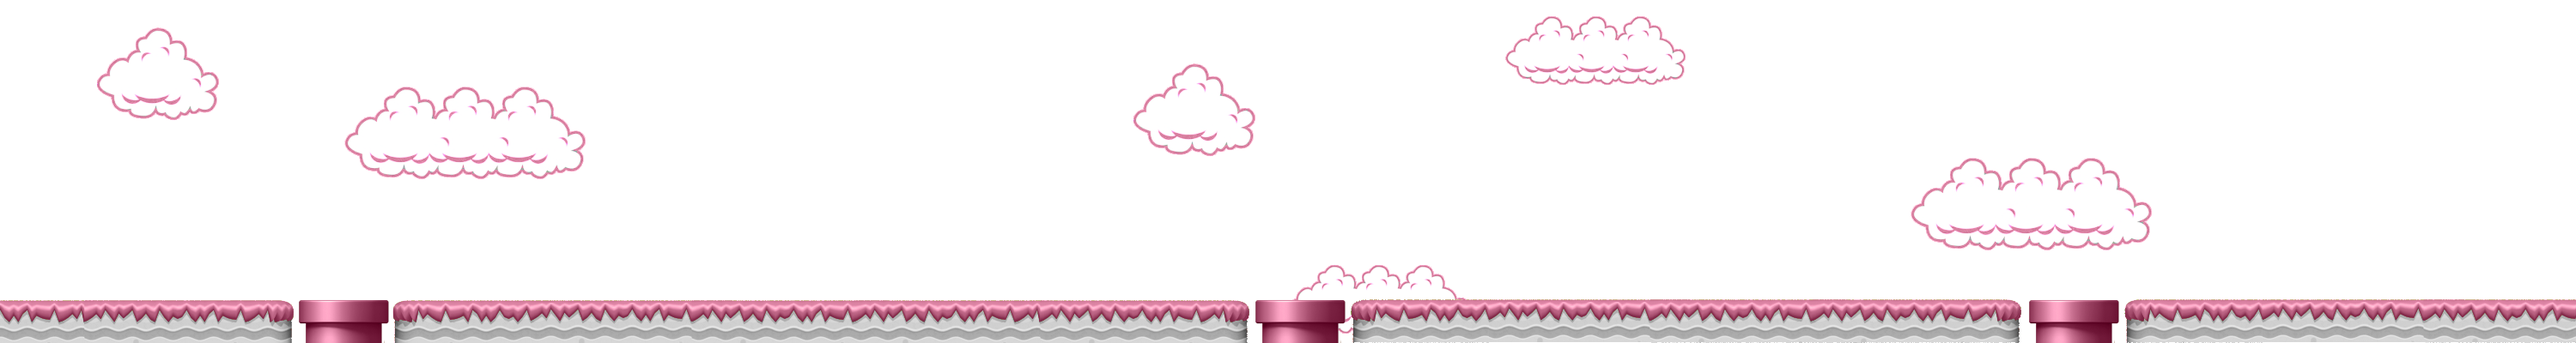
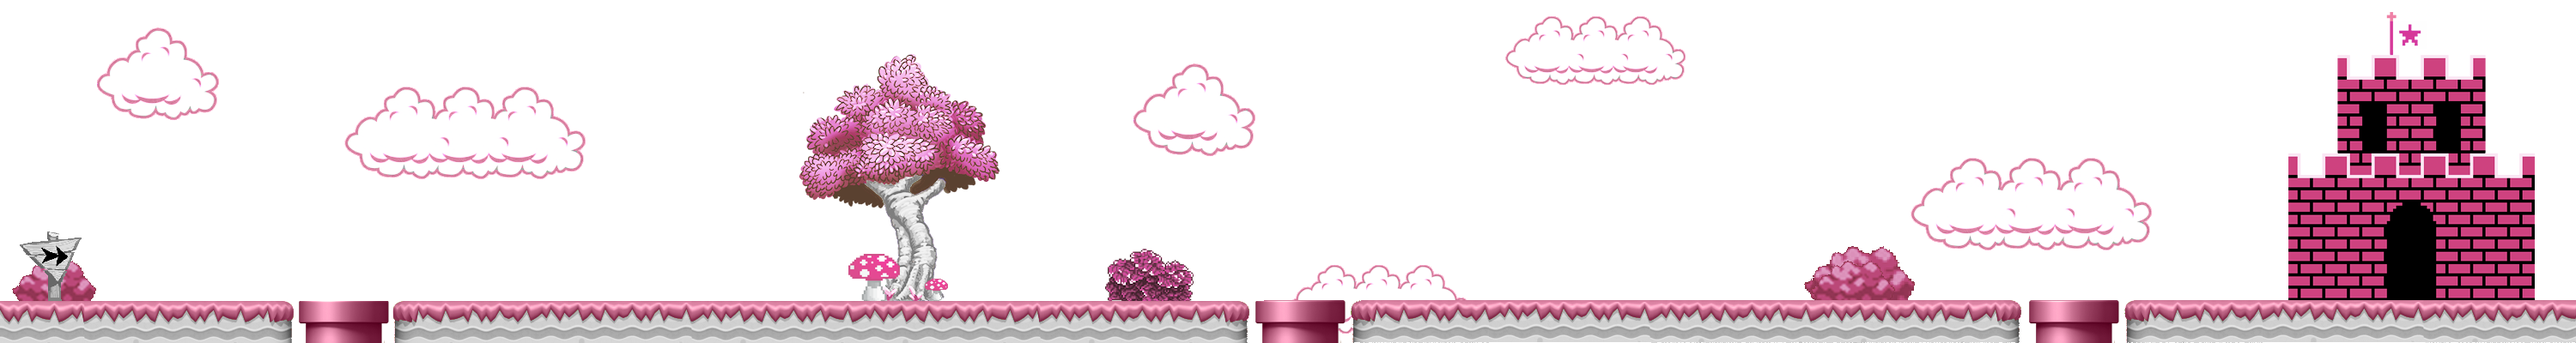
Map adjusment

diff --git a/stylesheets/screen.css b/stylesheets/screen.css
@@ -2,7 +2,7 @@
  * In this file you should write your main styles. (or centralize your imports)
  * Import this file using the following HTML or equivalent:
  * <link href="/stylesheets/screen.css" media="screen, projection" rel="stylesheet" type="text/css" /> */
-/* line 5, C:/Ruby200-x64/lib/ruby/gems/2.0.0/gems/compass-core-1.0.3/stylesheets/compass/reset/_utilities.scss */
+/* line 5, ../../../../../../Ruby200-x64/lib/ruby/gems/2.0.0/gems/compass-core-1.0.3/stylesheets/compass/reset/_utilities.scss */
 html, body, div, span, applet, object, iframe,
 h1, h2, h3, h4, h5, h6, p, blockquote, pre,
 a, abbr, acronym, address, big, cite, code,
@@ -24,45 +24,45 @@ time, mark, audio, video {
   vertical-align: baseline;
 }
 
-/* line 22, C:/Ruby200-x64/lib/ruby/gems/2.0.0/gems/compass-core-1.0.3/stylesheets/compass/reset/_utilities.scss */
+/* line 22, ../../../../../../Ruby200-x64/lib/ruby/gems/2.0.0/gems/compass-core-1.0.3/stylesheets/compass/reset/_utilities.scss */
 html {
   line-height: 1;
 }
 
-/* line 24, C:/Ruby200-x64/lib/ruby/gems/2.0.0/gems/compass-core-1.0.3/stylesheets/compass/reset/_utilities.scss */
+/* line 24, ../../../../../../Ruby200-x64/lib/ruby/gems/2.0.0/gems/compass-core-1.0.3/stylesheets/compass/reset/_utilities.scss */
 ol, ul {
   list-style: none;
 }
 
-/* line 26, C:/Ruby200-x64/lib/ruby/gems/2.0.0/gems/compass-core-1.0.3/stylesheets/compass/reset/_utilities.scss */
+/* line 26, ../../../../../../Ruby200-x64/lib/ruby/gems/2.0.0/gems/compass-core-1.0.3/stylesheets/compass/reset/_utilities.scss */
 table {
   border-collapse: collapse;
   border-spacing: 0;
 }
 
-/* line 28, C:/Ruby200-x64/lib/ruby/gems/2.0.0/gems/compass-core-1.0.3/stylesheets/compass/reset/_utilities.scss */
+/* line 28, ../../../../../../Ruby200-x64/lib/ruby/gems/2.0.0/gems/compass-core-1.0.3/stylesheets/compass/reset/_utilities.scss */
 caption, th, td {
   text-align: left;
   font-weight: normal;
   vertical-align: middle;
 }
 
-/* line 30, C:/Ruby200-x64/lib/ruby/gems/2.0.0/gems/compass-core-1.0.3/stylesheets/compass/reset/_utilities.scss */
+/* line 30, ../../../../../../Ruby200-x64/lib/ruby/gems/2.0.0/gems/compass-core-1.0.3/stylesheets/compass/reset/_utilities.scss */
 q, blockquote {
   quotes: none;
 }
-/* line 103, C:/Ruby200-x64/lib/ruby/gems/2.0.0/gems/compass-core-1.0.3/stylesheets/compass/reset/_utilities.scss */
+/* line 103, ../../../../../../Ruby200-x64/lib/ruby/gems/2.0.0/gems/compass-core-1.0.3/stylesheets/compass/reset/_utilities.scss */
 q:before, q:after, blockquote:before, blockquote:after {
   content: "";
   content: none;
 }
 
-/* line 32, C:/Ruby200-x64/lib/ruby/gems/2.0.0/gems/compass-core-1.0.3/stylesheets/compass/reset/_utilities.scss */
+/* line 32, ../../../../../../Ruby200-x64/lib/ruby/gems/2.0.0/gems/compass-core-1.0.3/stylesheets/compass/reset/_utilities.scss */
 a img {
   border: none;
 }
 
-/* line 116, C:/Ruby200-x64/lib/ruby/gems/2.0.0/gems/compass-core-1.0.3/stylesheets/compass/reset/_utilities.scss */
+/* line 116, ../../../../../../Ruby200-x64/lib/ruby/gems/2.0.0/gems/compass-core-1.0.3/stylesheets/compass/reset/_utilities.scss */
 article, aside, details, figcaption, figure, footer, header, hgroup, main, menu, nav, section, summary {
   display: block;
 }
@@ -126,11 +126,14 @@ article, aside, details, figcaption, figure, footer, header, hgroup, main, menu,
   position: absolute;
   top: 5px;
   left: 5px;
-  color: white;
-  text-shadow: 1px 1px #F79FBF, -1px 1px #F79FBF, -1px -1px #F79FBF, 1px -1px #F79FBF;
+  color: #d77f9f;
   z-index: 99999;
 }
-/* line 65, ../sass/screen.scss */
+/* line 63, ../sass/screen.scss */
+#content .border .hidden .count img {
+  width: 15px;
+}
+/* line 68, ../sass/screen.scss */
 #content .border .hidden .peach {
   width: 75px;
   height: 111px;
@@ -141,23 +144,22 @@ article, aside, details, figcaption, figure, footer, header, hgroup, main, menu,
   left: 50%;
   margin-left: -35px;
 }
-/* line 76, ../sass/screen.scss */
+/* line 79, ../sass/screen.scss */
 #content .border .hidden .right {
   background-image: url("../images/peach-right.gif");
 }
-/* line 80, ../sass/screen.scss */
+/* line 83, ../sass/screen.scss */
 #content .border .hidden .left {
   background-image: url("../images/peach-left.gif");
 }
-/* line 84, ../sass/screen.scss */
+/* line 87, ../sass/screen.scss */
 #content .border .hidden .top {
   background-image: url("../images/peach-jump.gif");
 }
-/* line 88, ../sass/screen.scss */
-#content .border .hidden .game {
+/* line 91, ../sass/screen.scss */
+#content .border .hidden .map {
   width: 3000px;
   height: 400px;
   background-image: url("../images/map-peach.png");
-  background-repeat: repeat-y;
   position: absolute;
 }

diff --git a/js/script.js b/js/script.js
@@ -19,7 +19,7 @@ $(function(){
 		} else if (event.which == 81 || event.which == 65) {
 			$(".peach").addClass("left");
 		} else if (event.which == 90 || event.which == 87) {
-			$(".peach").addTemporaryClass("top", 600);
+			$(".peach").addTemporaryClass("top", 400);
 		}
 	});
 
@@ -43,17 +43,17 @@ $(function(){
 	}
 
 	$(document).keydown(function(event){		
-		var posX = $(".game").position().left;
+		var posX = $(".map").position().left;
 		if (event.which == 68 && posX > -2600 ) {
-			$(".game").animate(moveRight, 0);
+			$(".map").animate(moveRight, 0);
 			console.log(posX);
 		} else if (event.which == 81 && posX < 0 || event.which == 65 && posX < 0) {
-			$(".game").animate(moveLeft, 0);
+			$(".map").animate(moveLeft, 0);
 		} else if (event.which == 90 || event.which == 87) {
 			$(".peach").animate({'top':pos.top - 100 + 'px'}, 250);
 			setTimeout(function(){
 		    	$('.peach').animate({'top': pos.top + 'px'}, 50);
-		    }, 400);
+		    }, 200);
 		}
 	});
 });

diff --git a/sass/screen.scss b/sass/screen.scss
@@ -50,16 +50,19 @@ $peach-color:#F79FBF;
 			height: 400px;
 			position: relative;
 
-			.count {
+			.count{
 				font-family: courier;
 				font-weight: bold;
 				font-size: 30px;
 				position: absolute;
 				top: 5px;
 				left: 5px;
-				color: white;
-				text-shadow: 1px 1px $peach-color, -1px 1px $peach-color, -1px -1px $peach-color, 1px -1px $peach-color;
+				color: #d77f9f;
 				z-index: 99999;
+
+				img{
+					width: 15px;
+				}
 			}
 
 			.peach{
@@ -85,11 +88,10 @@ $peach-color:#F79FBF;
 				background-image: url('../images/peach-jump.gif');
 			}
 
-			.game{
+			.map{
 				width: 3000px;
 				height: 400px;
 				background-image: url('../images/map-peach.png');
-				background-repeat: repeat-y;
 				position: absolute;
 			}
 		}

diff --git a/peach.html b/peach.html
@@ -13,9 +13,12 @@
 		<div class="border">
 			<div class="logo"></div>
 			<div class="hidden">
-				<div class="count">Score: 0</div>
+				<div class="count">
+					<span class="coins"><img src="images/coin.gif">x<span>0</span></span>
+					<span class="flowers"><img src="images/flower.png">x<span>0</span></span>
+				</div>
 				<div class="peach"></div>
-				<div class="game"></div>
+				<div class="map"></div>
 			</div>
 		</div>
 	</div>
